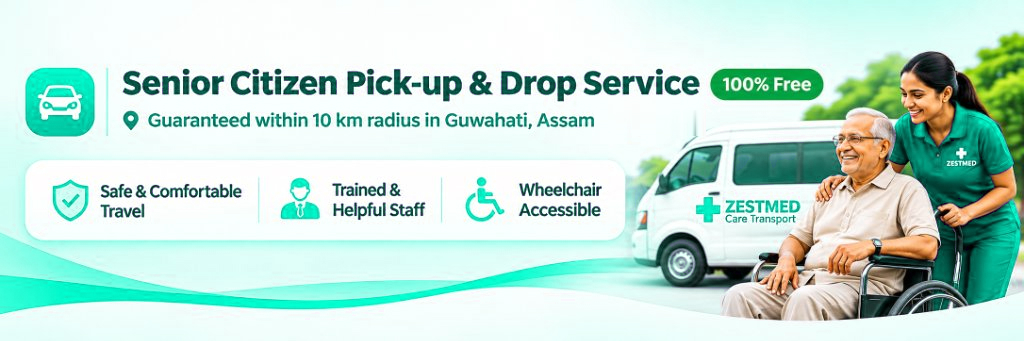
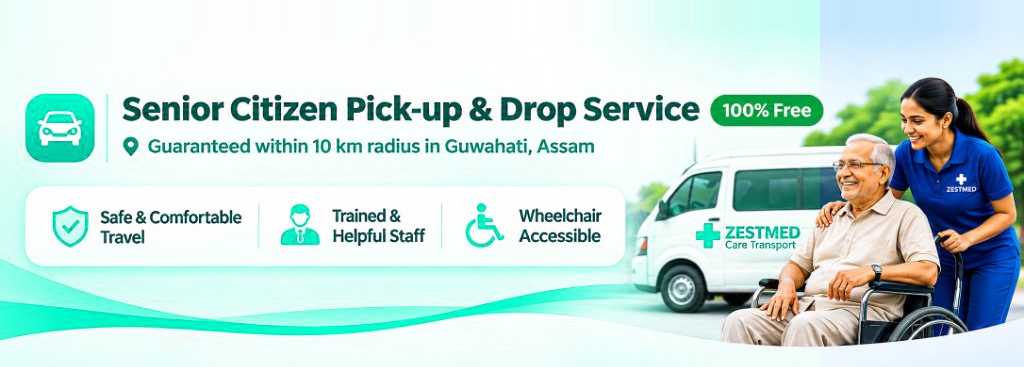
Restore nurse royal blue uniform and add vertical breathing padding to prevent top cropping

diff --git a/src/components/SeniorCitizenPickUpModal.jsx b/src/components/SeniorCitizenPickUpModal.jsx
@@ -105,12 +105,13 @@ export default function SeniorCitizenPickUpModal({ isOpen, onClose, defaultServi
         className="bg-white rounded-2xl sm:rounded-3xl shadow-2xl border border-slate-200/90 w-full max-w-[660px] max-h-[96vh] flex flex-col overflow-y-auto sm:overflow-hidden animate-scale-up"
         onClick={(e) => e.stopPropagation()}
       >
-        {/* Header Banner - Complete visible banner without cropping, matching ZESTMED theme */}
+        {/* Header Banner - Complete visible banner without cropping, with blue uniform nurse */}
         <div className="relative w-full overflow-hidden border-b border-slate-100 bg-[#E8F5F8] select-none shrink-0">
           <img
-            src="/senior-pickup-header-banner.jpg"
+            src="/senior-pickup-header-banner.jpg?v=4"
             alt="Senior Citizen Pick-up & Drop Service"
-            className="w-full h-auto block object-contain pointer-events-none"
+            className="w-full h-auto block pointer-events-none"
+            style={{ maxHeight: 'none', objectFit: 'contain' }}
           />
           {/* Close Button top-right */}
           <button
